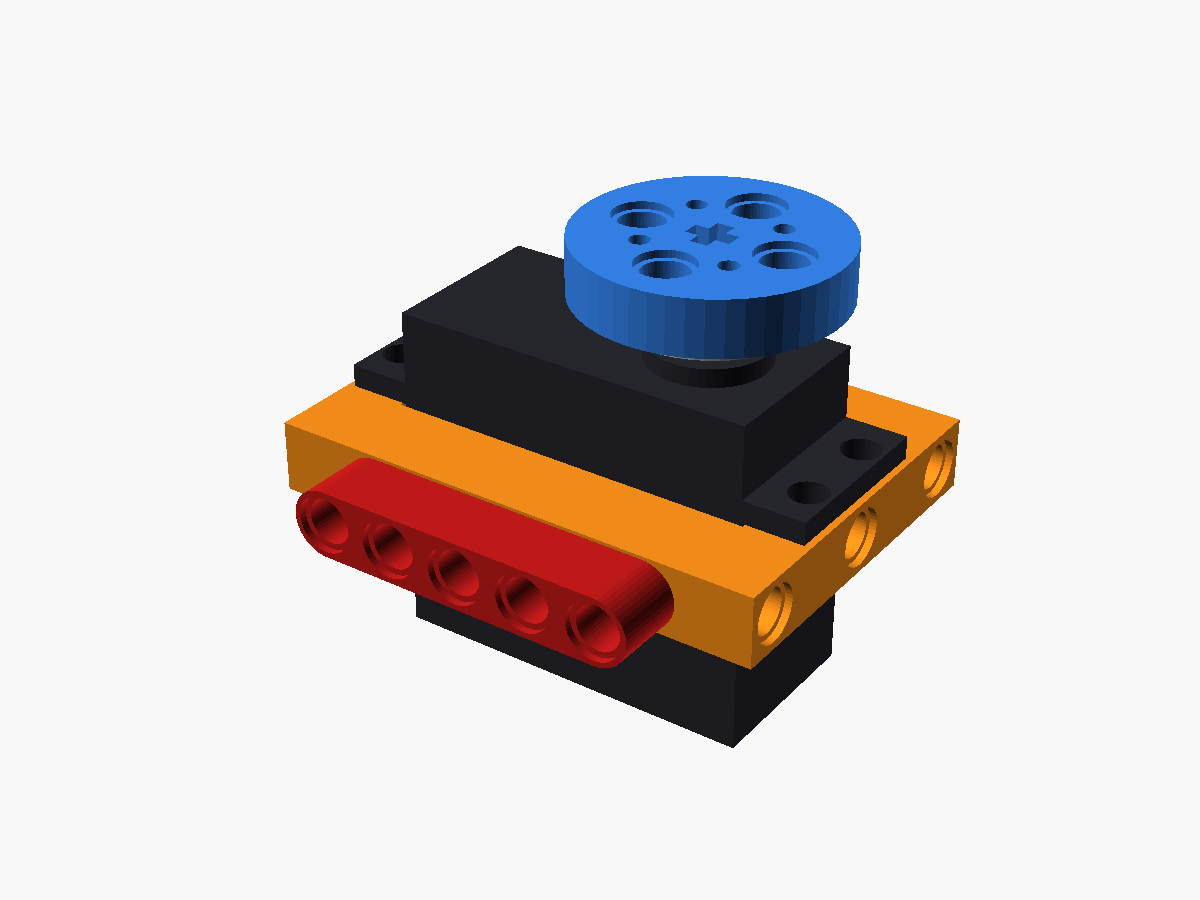
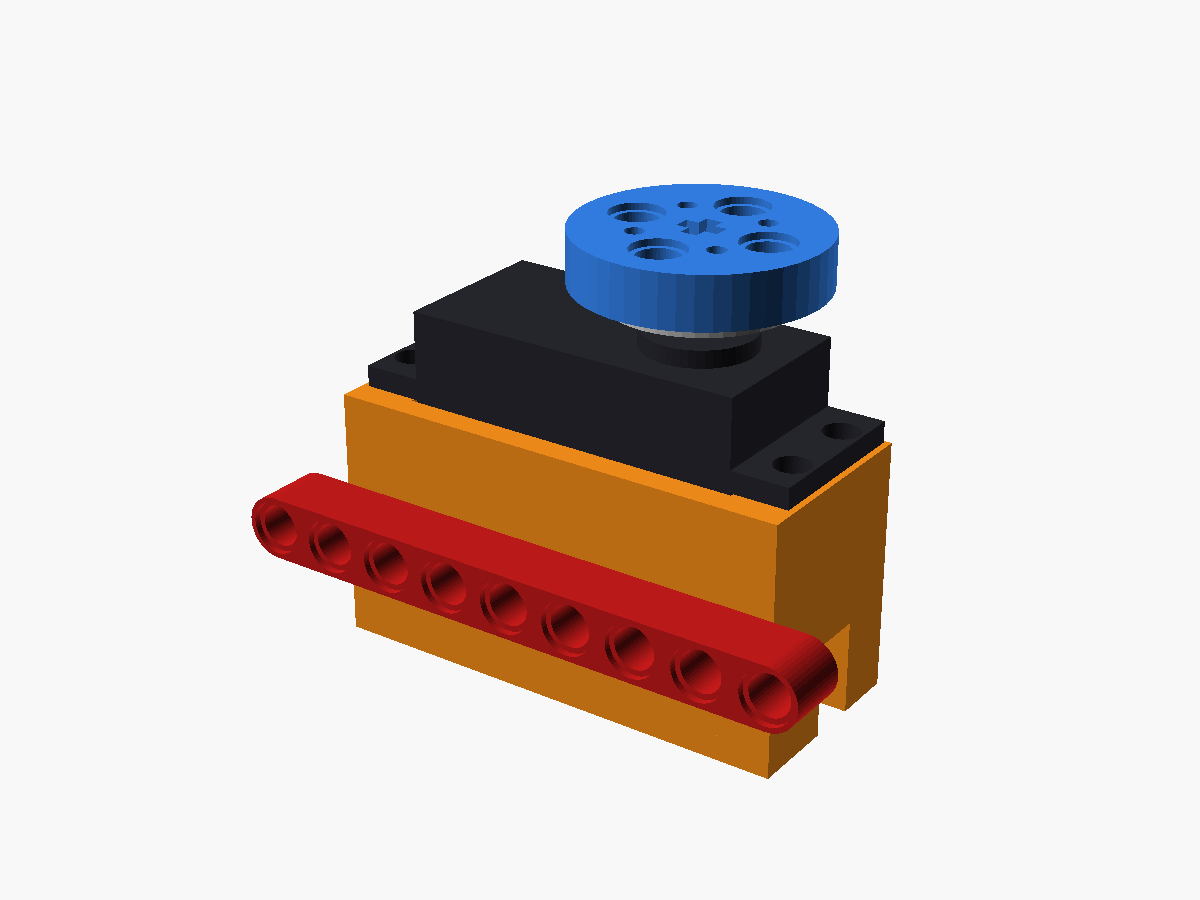
cad: MG996 clamp that pins the servo's broad side to a Technic beam
Replaces the frame as the main part, as M5's kits do it: a cradle covering one
broad face, with two Technic pin holes HOLE_GAP_PEGS apart (6 = 48 mm for a
standard servo, 3 on M5's micro servo), end blocks the ears screw onto, and a
cable slot at each end. The frame stays as an alternative part.

Claude-Session: https://claude.ai/code/session_0177ombTgtJfgtCS8kZVYuUW

Changed region(s): [[0.185, 0.1867, 0.8017, 0.8711]]

diff --git a/CLAUDE.md b/CLAUDE.md
@@ -23,7 +23,7 @@ make sense to them; everything an adult needs should be written down for them.
 | `firmware/IR_Test/` | just the Reflective IR Unit on Port A or B: digital and analog readings on the matrix and Serial. Uses no shared files |
 | `firmware/Light_Test/` | just the Light Unit on Port A, B or C: both pins' readings (level or on/off) on the matrix and Serial. Uses no shared files |
 | `firmware/examples/` | standalone beginner examples, one device each (servo, ToF, IR, Light Unit, Key, Color), with hook-up notes. Use no shared files |
-| `cad/` | OpenSCAD models: `mg996_brick_mount.scad` (Technic-grid frame and horn adapter for an MG996 servo, extrapolated from M5's brick-compatible servo kits) and its preview images |
+| `cad/` | OpenSCAD models: `mg996_brick_mount.scad` (a clamp that pins an MG996 servo's broad side to a Technic beam, holes 6 apart, plus a Technic horn adapter; extrapolated from M5's brick-compatible servo kits) and its preview images |
 | `firmware/sync_shared.py` | copies `shared/` into the sketches |
 | `tests/host/` | runs the real sketches against fake hardware |
 | `docs/hardware.md` | pins, Motion registers, sensor chip IDs, port limits, quirks |
